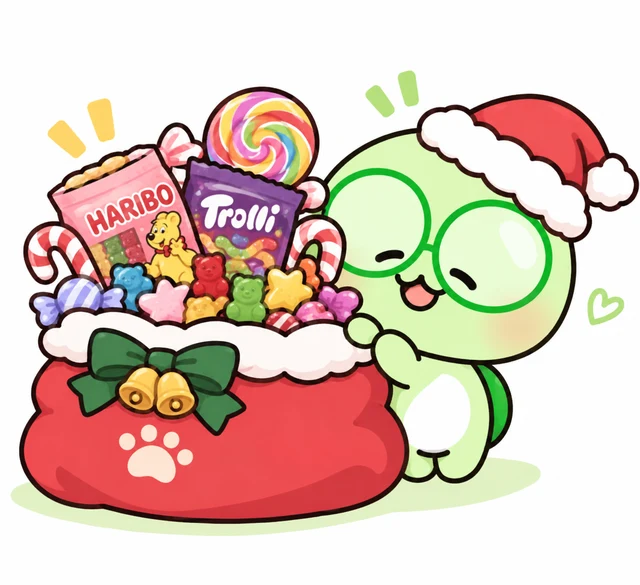
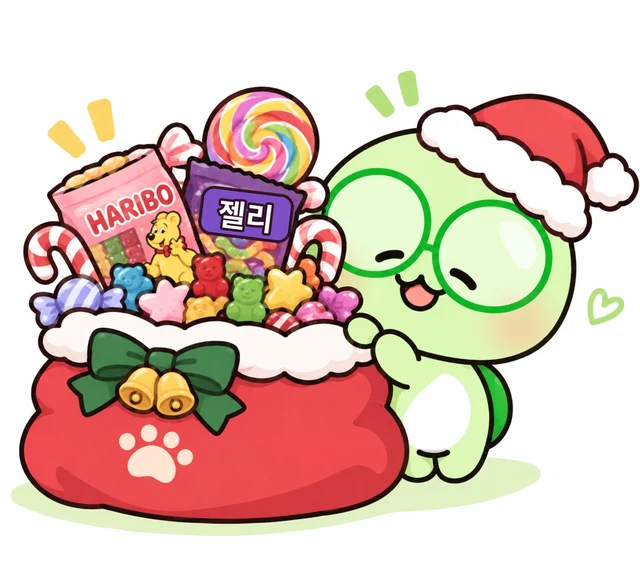
Real snack names and cartoon art in random snack popups; Trolli -> 젤리
Claude-Session: https://claude.ai/code/session_012oqcMMWGQh59pWuMif7r2Q

Changed region(s): [[0.3125, 0.3077, 0.4688, 0.4308]]

diff --git a/index.html b/index.html
@@ -787,7 +787,7 @@ function mockInit(){
   mockDB.wins.push({'시간':'12/17 09:40:00','이름':'정도윤','게임':'랜덤박스','등급':'1등','상품명':'배달의민족 3만원권','이미지':'baemin','학생코드':''});
   mockDB.box[0]['남은수량']=0;
 
-  mockDB.pools={'디비의 랜덤 사탕과 젤리':['다믈라 젤리','젤리 (미정)'],'이브의 랜덤 짭짤 과자':['짭짤과자 A','짭짤과자 B'],'와비의 랜덤 달콤 과자':['달콤과자 A','달콤과자 B'],'랜덤 연필':['크리스마스 연필','DYB 연필'],'랜덤 지우개 뽑기':['치이카와 지우개','짱구 지우개']};
+  mockDB.pools={'이브의 랜덤 짭짤 과자':['차카니','네모스낵'],'와비의 랜덤 달콤 과자':['초코 팅촉','꾀돌이'],'디비의 랜덤 사탕과 젤리':['하리보','새콤짱'],'랜덤 연필':['크리스마스 연필','DYB 연필'],'랜덤 지우개 뽑기':['치이카와 지우개','짱구 지우개']};
   mockDB.users.forEach((u,i)=>{u['학년']=['4학년','5학년','6학년'][i%3];u['담임']=['박','최','이'][i%3]+'선생'});
   [['이서연','떡볶이가 진짜 맛있었어요!! 또 해 주세요 🌶'],['박지호','선생님들 항상 감사합니다 ❤'],['최하은','룰렛 돌리는 거 너무 재밌어요ㅎㅎ']].forEach(([n,t],k)=>
     mockDB.comments.push({'시간':`12/17 10:1${k}:00`,'학년':'','이름':n,'내용':t,'상태':'','학생코드':''}));
@@ -880,8 +880,8 @@ function cardHTML(it){
 document.addEventListener('click',e=>{
   const pb=e.target.closest('.poolbtn'); if(pb){ const nm=pb.dataset.pool, it=S.items.find(i=>i.name===nm)||{}, snack=it.cat==='간식';
     let list=((S.pools||{})[nm]||[]).slice(); const samp=SAMPLE_POOL[nm];
-    if(samp && (!list.length || list.every(x=>/미정|과자 [AB]/.test(x)))) list=samp.map(x=>x.n);
-    const pics=list.map((x,i)=>{ const sp=samp&&samp.find(o=>o.n===x); return sp?sp.img:(samp?samp[i%samp.length].img:''); });
+    if(samp && (!list.length || list.every(x=>/미정|과자 [AB]|다믈라/.test(x)))) list=samp.map(x=>x.n);
+    const pics=list.map((x,i)=>poolPic(x)||(samp?samp[i%samp.length].img:''));
     showModal(`<div class="pool-top"><img class="pool-ch" src="img/xmas/hamster_magni.webp" alt=""><div class="pool-say hand">${snack?'무슨 간식이 들어있을까?':'무엇이 들어있을까?'}</div></div>
       <div class="rname" style="font-size:26px;margin-top:4px">${esc(nm)}</div>
       <div class="pool-cards">${list.map((x,i)=>`${i?'<span class="or">or</span>':''}<div class="pc">${pics[i]?`<img src="${pics[i]}" alt="">`:''}<b>${esc(x)}</b></div>`).join('')}</div>
@@ -942,10 +942,12 @@ function renderPopular(){
 }
 /* 아직 과자가 안 정해진 랜덤 물품의 샘플 구성 */
 const SAMPLE_POOL={
-  '이브의 랜덤 짭짤 과자':[{n:'과자 이름 1',img:'img/items/sample_snack2.webp'},{n:'과자 이름 b',img:'img/items/sample_snack1.webp'}],
-  '와비의 랜덤 달콤 과자':[{n:'과자 이름 1',img:'img/items/sample_snack1.webp'},{n:'과자 이름 b',img:'img/items/sample_snack2.webp'}],
-  '디비의 랜덤 사탕과 젤리':[{n:'과자 이름 1',img:'img/items/sample_snack1.webp'},{n:'과자 이름 b',img:'img/items/sample_snack2.webp'}]
+  '이브의 랜덤 짭짤 과자':[{n:'차카니',img:'img/items/pool_chakani.webp'},{n:'네모스낵',img:'img/items/pool_nemo.webp'}],
+  '와비의 랜덤 달콤 과자':[{n:'초코 팅촉',img:'img/items/pool_tingchok.webp'},{n:'꾀돌이',img:'img/items/pool_kkoedol.webp'}],
+  '디비의 랜덤 사탕과 젤리':[{n:'하리보',img:'img/items/pool_haribo.webp'},{n:'새콤짱',img:'img/items/pool_saekom.webp'}]
 };
+const POOL_ART={'차카니':'pool_chakani','네모':'pool_nemo','팅촉':'pool_tingchok','꾀돌':'pool_kkoedol','하리보':'pool_haribo','새콤':'pool_saekom'};
+function poolPic(x){ const k=Object.keys(POOL_ART).find(k=>x.includes(k)); return k?`img/items/${POOL_ART[k]}.webp`:''; }
 /* ================= MODAL ================= */
 function showModal(html,rays=false,jackpot=false,extra=''){
   $('mbox').className='mbox'+(jackpot?' jackpot':'')+(extra?' '+extra:''); $('mbox').innerHTML=html;
